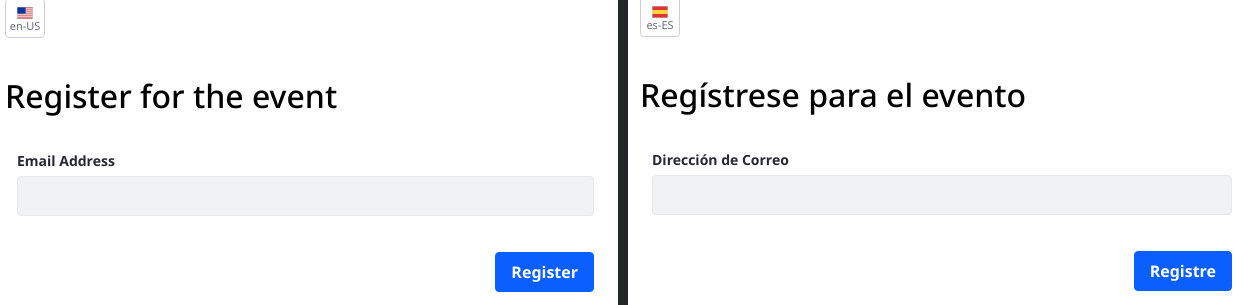
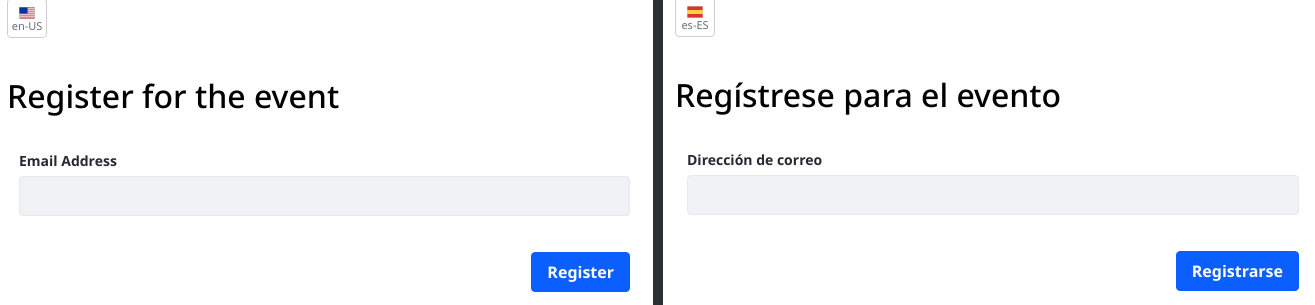
LRDOCS-9264 update images based on Spanish speaker feedback

diff --git a/docs/dxp/latest/en/process-automation/forms/creating-and-managing-forms/customizing-the-submit-button.md b/docs/dxp/latest/en/process-automation/forms/creating-and-managing-forms/customizing-the-submit-button.md
@@ -16,7 +16,7 @@ Sometimes _Submit_ isn't the clearest word for the action the User is taking whe
 
 1. Save the form, then go back to the form view and see that the button has your new label:
 
-   ![The button label an be customized.](./customizing-the-submit-button/images/01.png)
+   ![The button label can be customized.](./customizing-the-submit-button/images/01.png)
 
 ## Localizing the Button Label
 
@@ -27,10 +27,10 @@ Forms are [translatable](./translating-forms.md). If you have a translated form 
 1. In the default language, customize the button label from the ![Settings](../../../images/icon-settings.png) menu.
 1. Switch to the translated form and repeat the procedure for the translation. You'll see the flag for the locale you're translating into next to the Submit Button Label field.
 
-   ![Follow the same procedure inside the translated form to also translate its Submit button.](./customizing-the-submit-button/images/04.png)
+   ![Follow the same procedure inside the translated form to also translate its Submit button.](./customizing-the-submit-button/images/03.png)
 
 When finished, your form has a consistent lexicon across languages.
 
-![The button label can be translated.](./customizing-the-submit-button/images/06.png)
+![The button label can be translated.](./customizing-the-submit-button/images/04.png)
 
 
